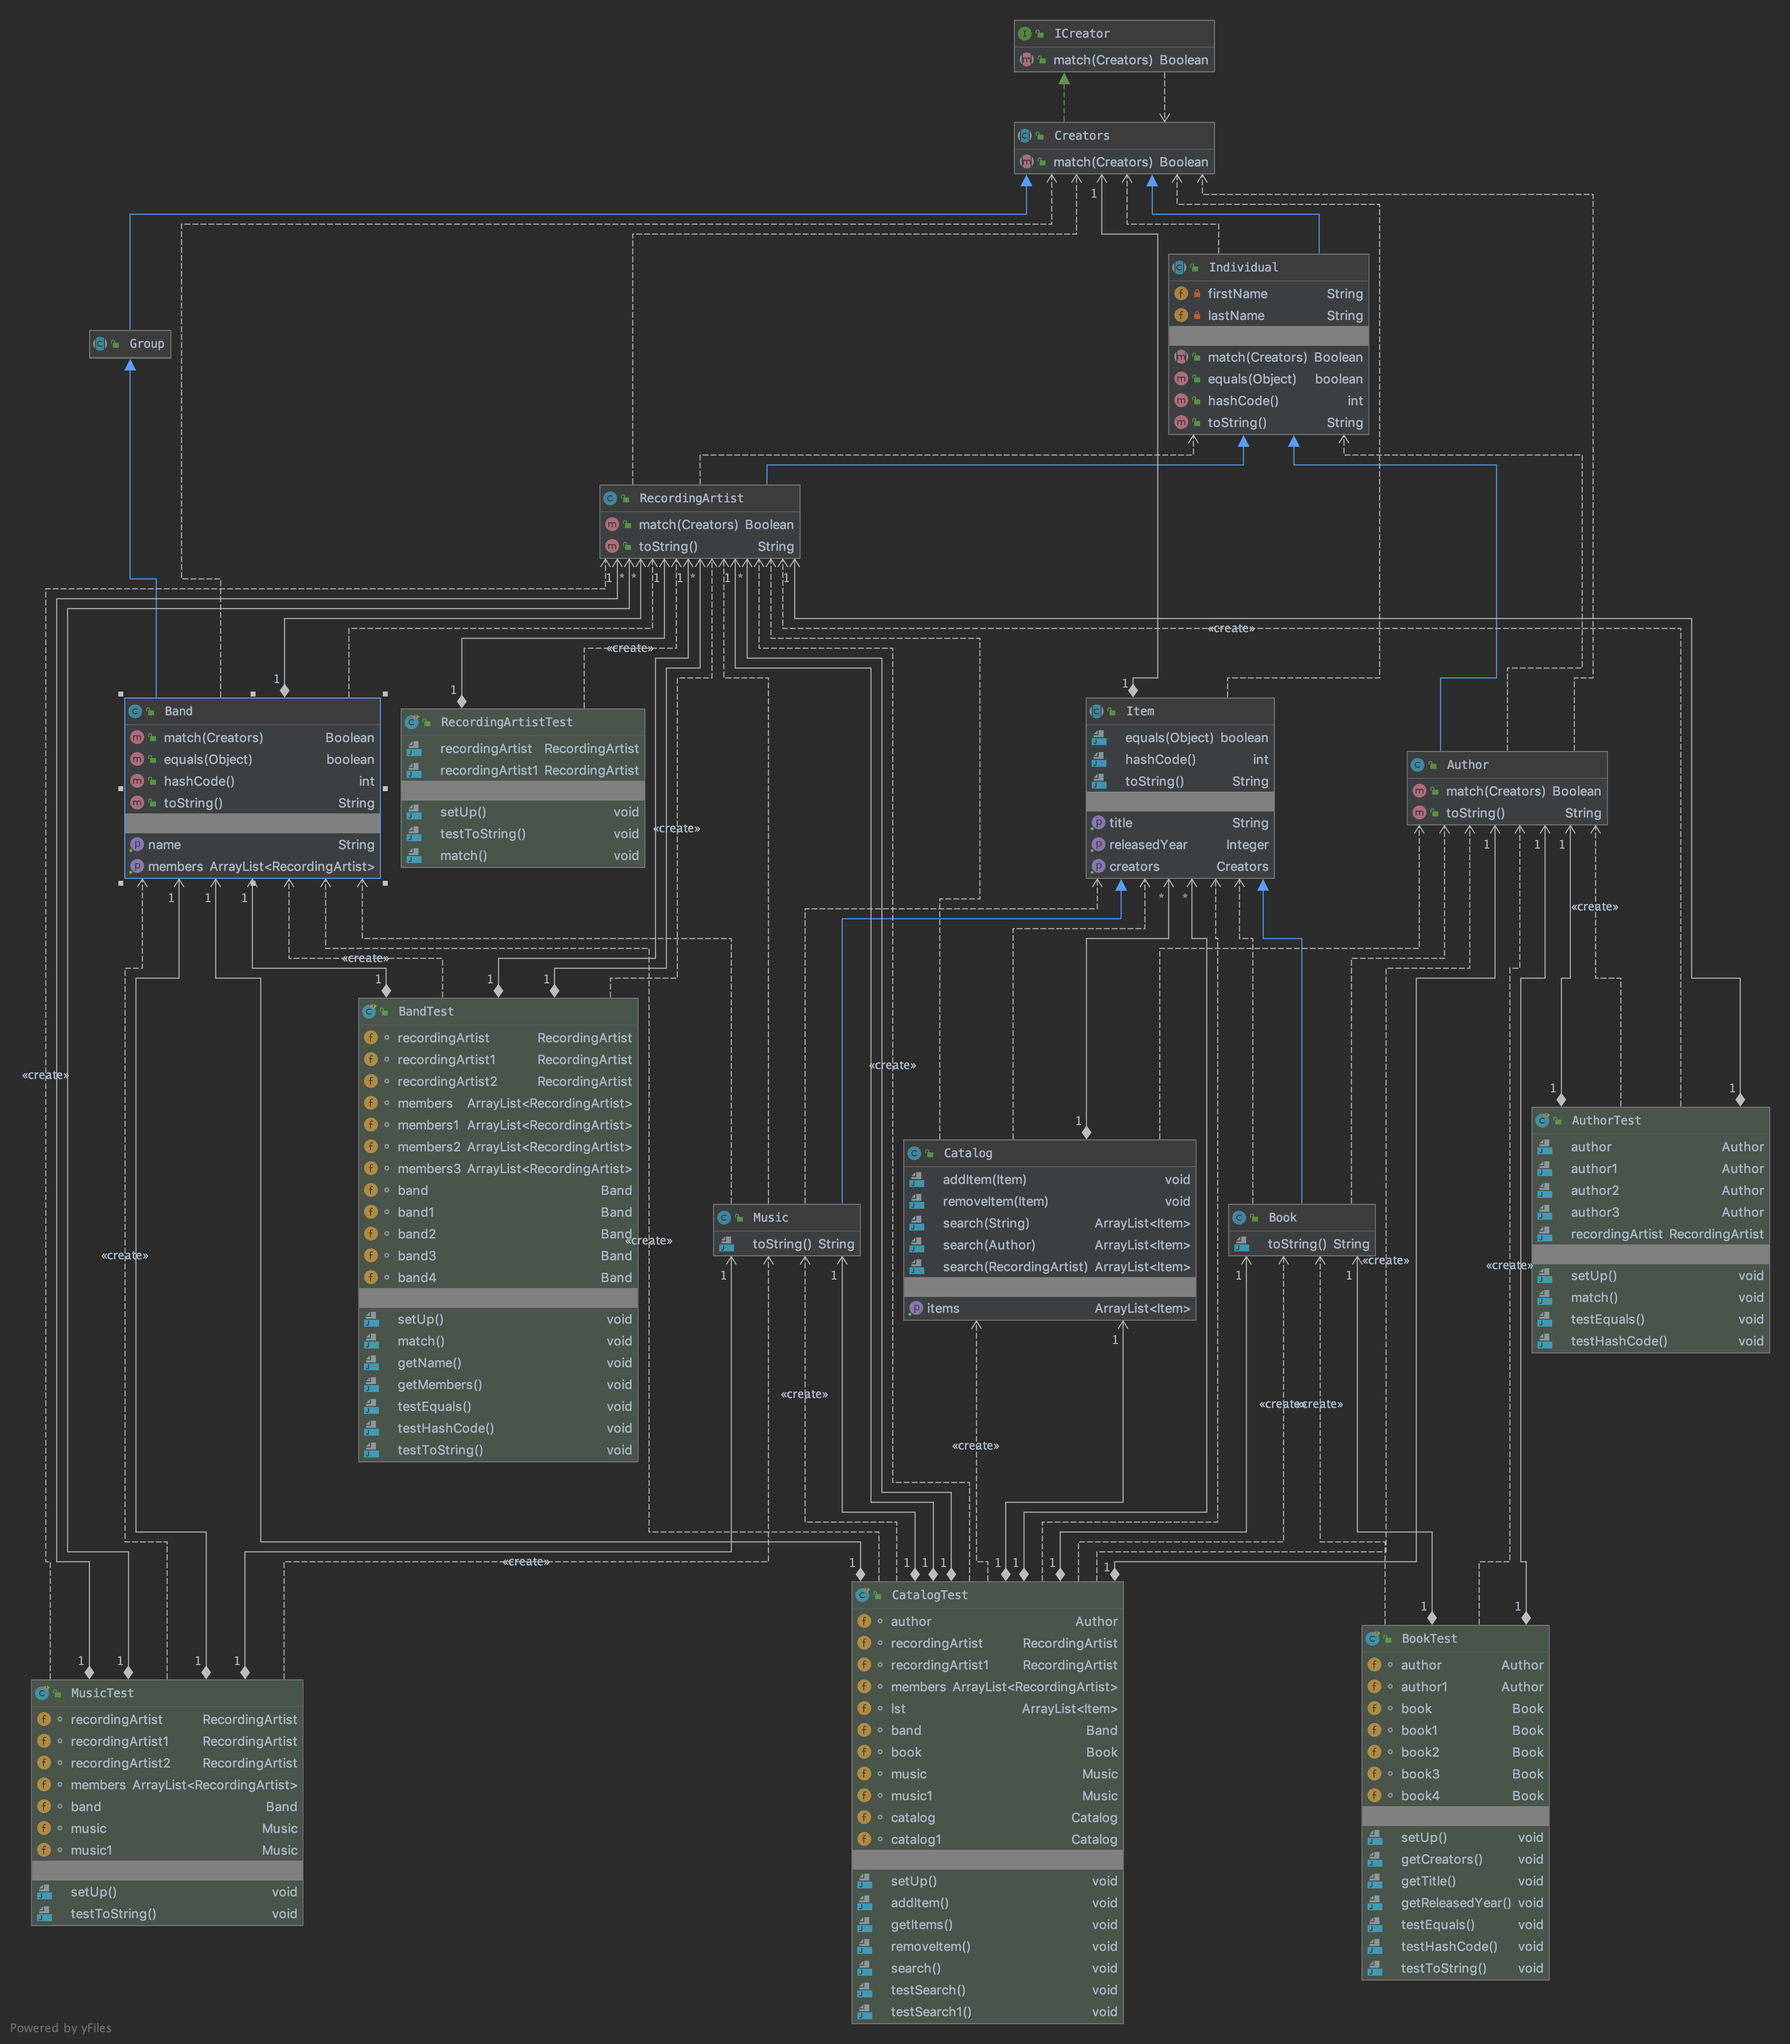
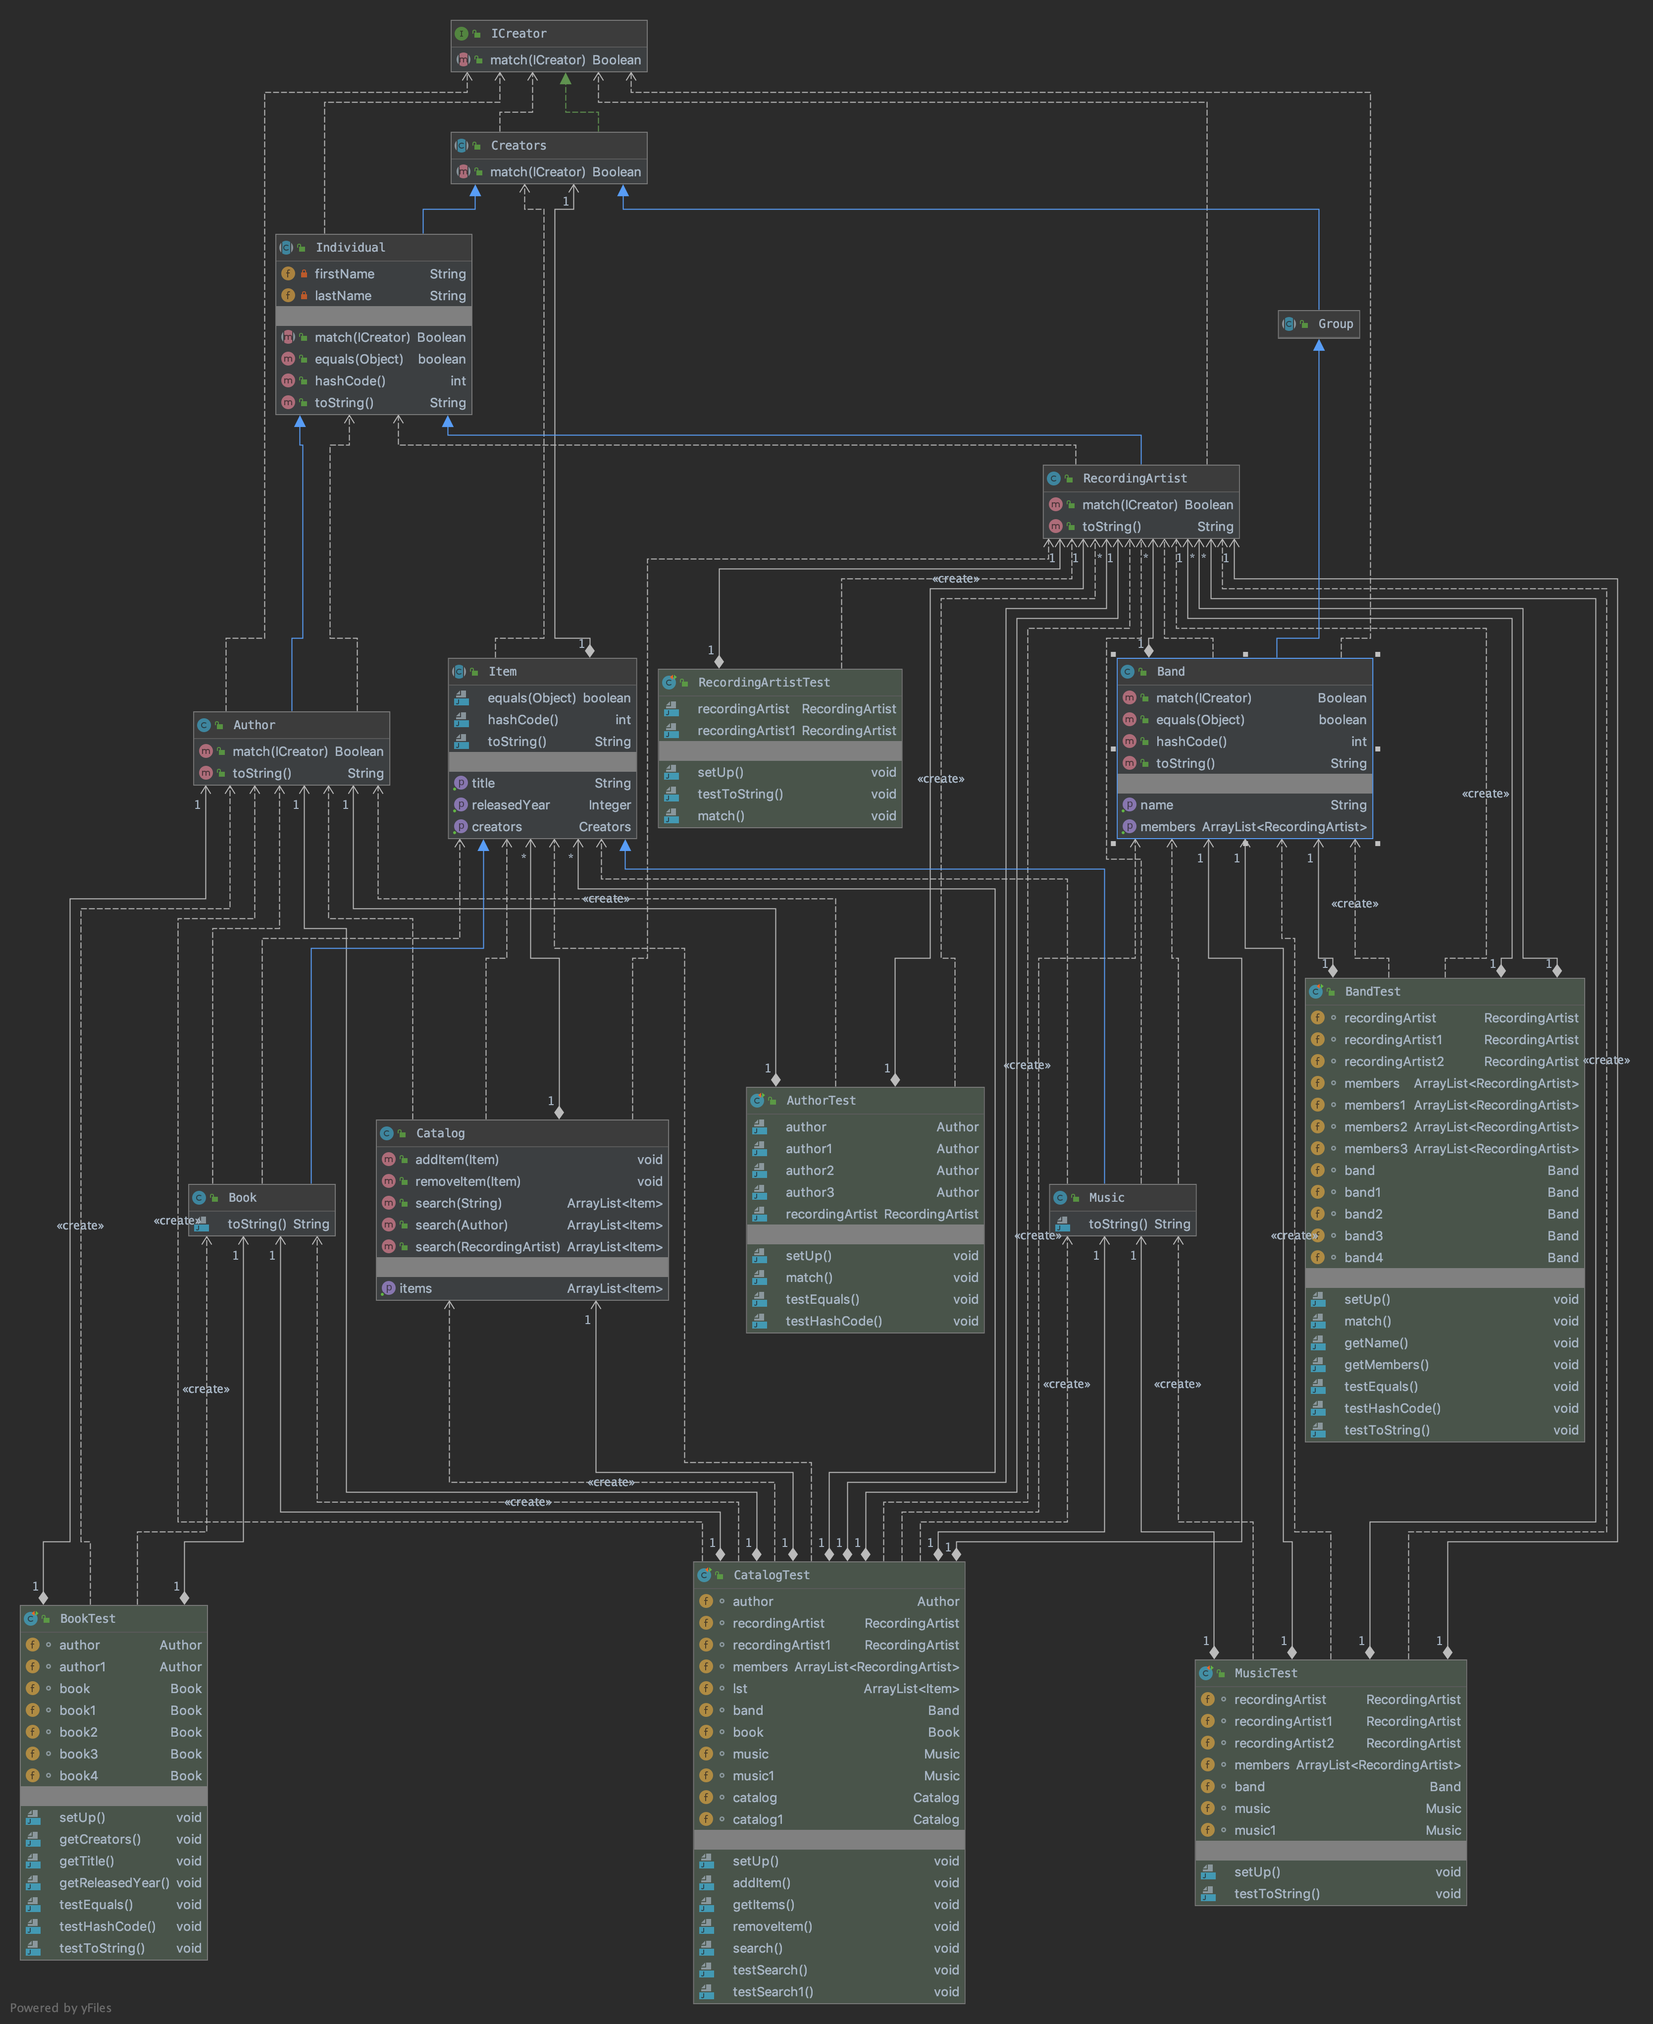
OOD

diff --git a/Assignment5/src/main/java/problem2/Band.java b/Assignment5/src/main/java/problem2/Band.java
@@ -27,13 +27,8 @@ public class Band extends Group {
    * @param creators creators
    * @return the boolean
    */
-  public Boolean match(Creators creators) {
-    for (RecordingArtist ra : this.members) {
-      if (creators instanceof RecordingArtist && ra.equals(creators)) {
-        return true;
-      }
-    }
-    return false;
+  public Boolean match(ICreator creators) {
+    return members.contains(creators);
   }
 
   /**

diff --git a/Assignment5/src/main/java/problem2/Author.java b/Assignment5/src/main/java/problem2/Author.java
@@ -16,11 +16,8 @@ public class Author extends Individual {
   }
 
   @Override
-  public Boolean match(Creators creator) {
-    if (creator instanceof Author) {
-      return this.equals(creator);
-    }
-    return false;
+  public Boolean match(ICreator creator) {
+    return this.equals(creator);
   }
 
   @Override

diff --git a/Assignment5/src/main/java/problem2/RecordingArtist.java b/Assignment5/src/main/java/problem2/RecordingArtist.java
@@ -16,11 +16,8 @@ public class RecordingArtist extends Individual {
   }
 
   @Override
-  public Boolean match(Creators creator) {
-    if (creator instanceof RecordingArtist) {
+  public Boolean match(ICreator creator) {
       return this.equals(creator);
-    }
-    return false;
   }
 
   @Override

diff --git a/Assignment5/src/main/java/problem1/MonthlyDonation.java b/Assignment5/src/main/java/problem1/MonthlyDonation.java
@@ -53,6 +53,8 @@ public class MonthlyDonation extends Donation {
     return this.cancellationDate;
   }
 
+
+  // LIKAI THINKS ITS ENOUGH.
   @Override
   public Integer getExpectedDonation(Integer year) {
     if (this.cancellationDate == null) {

diff --git a/Assignment5/src/main/java/problem2/Individual.java b/Assignment5/src/main/java/problem2/Individual.java
@@ -20,7 +20,7 @@ public abstract class Individual extends Creators {
   }
 
   @Override
-  public abstract Boolean match(Creators creator);
+  public abstract Boolean match(ICreator creator);
 
   @Override
   public boolean equals(Object o) {

diff --git a/Assignment5/src/main/java/problem2/Creators.java b/Assignment5/src/main/java/problem2/Creators.java
@@ -5,5 +5,5 @@ package problem2;
  */
 public abstract class Creators implements ICreator {
 
-  public abstract Boolean match(Creators creator);
+  public abstract Boolean match(ICreator creator);
 }

diff --git a/Assignment5/src/main/java/problem2/ICreator.java b/Assignment5/src/main/java/problem2/ICreator.java
@@ -11,5 +11,6 @@ public interface ICreator {
    * @param creator the creator
    * @return the boolean
    */
-  Boolean match(Creators creator);
+  Boolean match(ICreator creator);
+
 }
